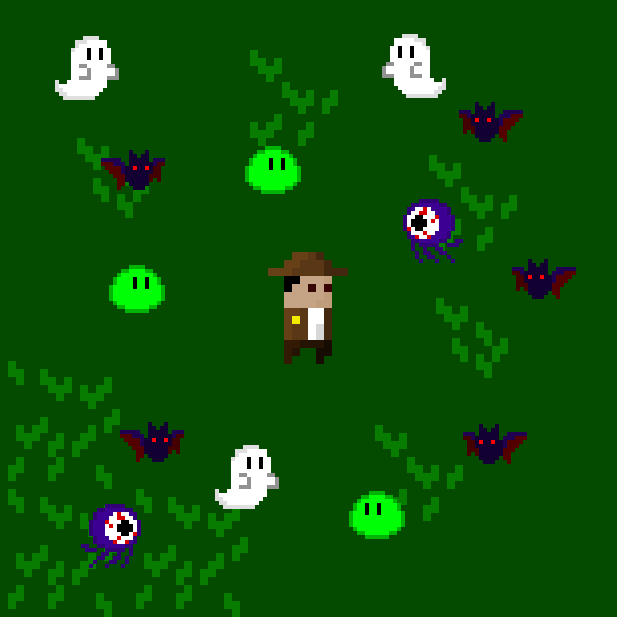
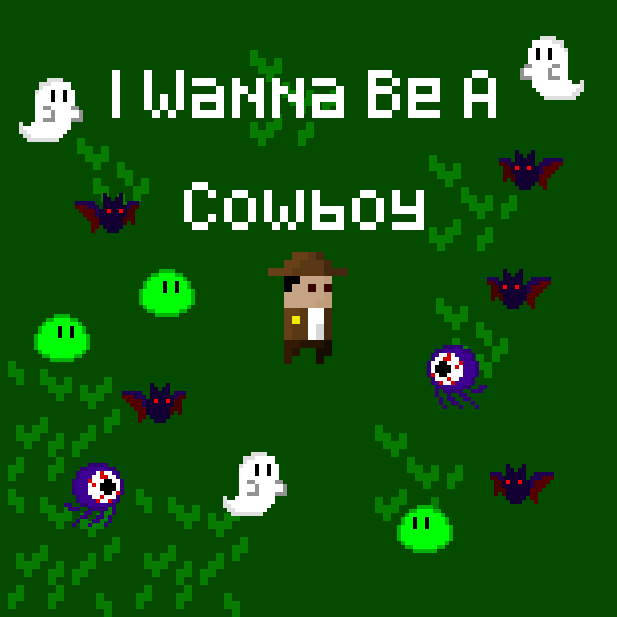
Update Survivor clone title
Update image to have title
Update title and description in block

diff --git a/index.html b/index.html
@@ -57,9 +57,9 @@
 							<header>
 								<a href="https://github.com/Rikerd/SurvivorClone" target="_blank"><img src="images/survivor clone.png" alt="" /></a>
 							</header>
-							<h2>Vampire Surivior Clone</h2>
+							<h2>I Wanna Be A Cowboy</h2>
 							<hr></hr>
-							<p>Current WIP game of vampire survivor clone.</p>
+							<p>Fight off hordes of enemies as you try to be the greatest cowboy!</p>
 						<ul class="actions">
 							<li><a href="https://github.com/Rikerd/SurvivorClone" target ="_blank" class="button big">GitHub</a></li>
 						</ul>
